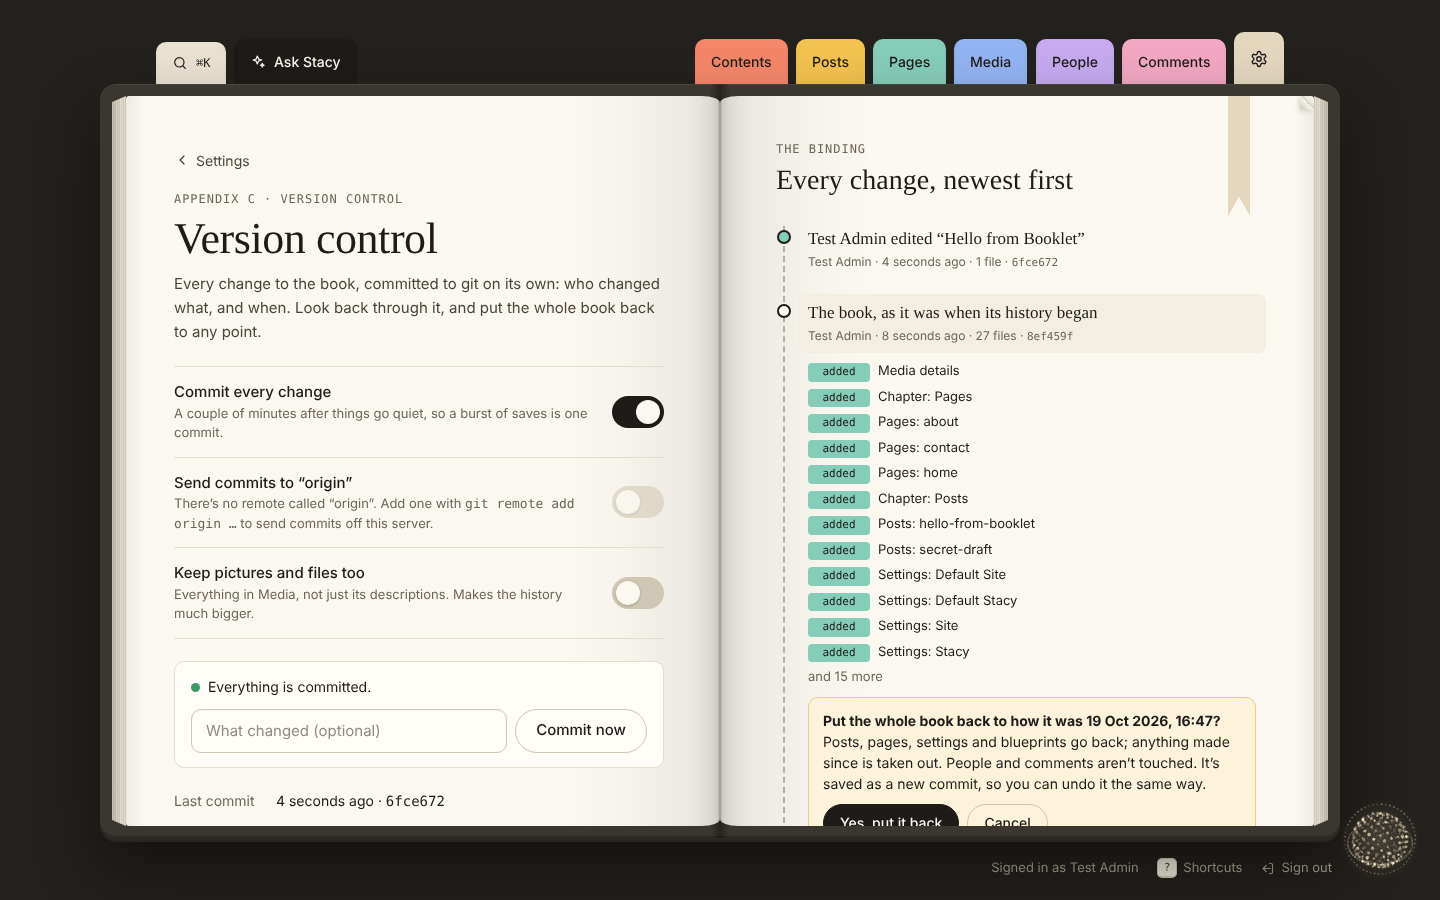
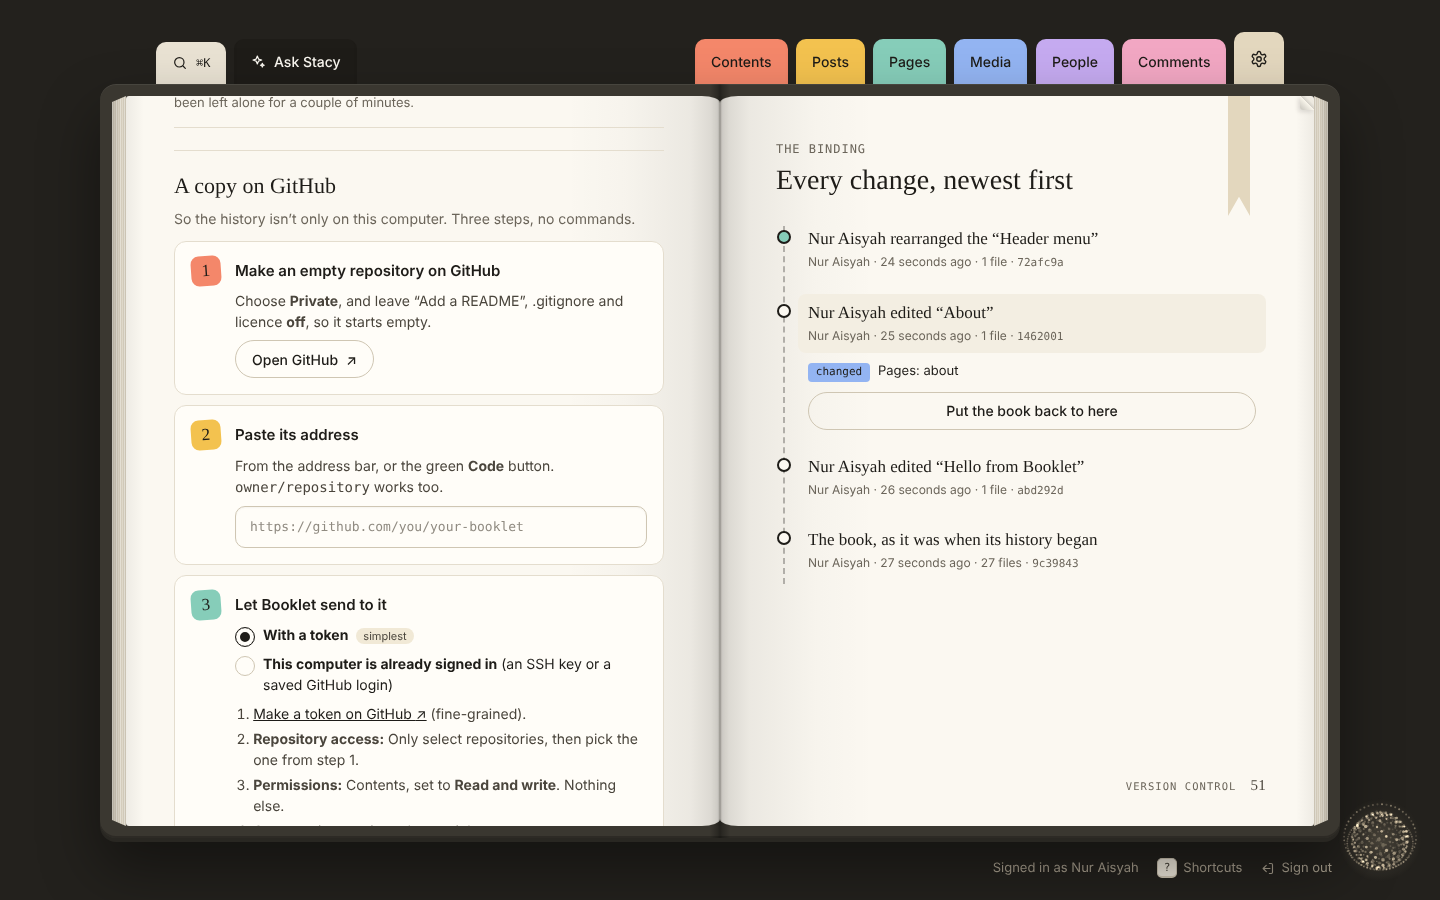
Updated README.md, docs/screenshots/site-menus.png and 2 more files
Changed: README.md, docs/screenshots/site-menus.png, docs/screenshots/version-control.png, docs/screenshots/wide-panel.png

diff --git a/README.md b/README.md
@@ -16,9 +16,20 @@ It comes with **Stacy**, an assistant who can find, write, tidy and publish with
 - **Blocks ("cut-outs"):** quotes, pictures, galleries, buttons, two columns, videos, notes and featured posts, tucked into any page and dragged into order. Inserts can add their own.
 - **Linked entries and rows:** point a page at other posts and pages (with "linked from" on the other side), or keep small tables like ingredients and opening hours.
 - **Show this field when…:** fields that appear only when another field says so, set up by picking or by typing it in plain words.
-- **Calendar, categories and tags, menus, redirects, and a print-ready book** of your writing.
+- **Calendar, categories and tags, redirects, and a print-ready book** of your writing.
 
 ![Cut-outs in the editor: paper slips with coloured tabs](docs/screenshots/editor-cut-outs.png)
+
+### Site menus
+- **One list, drag and drop.** Rows tucked in under another drop down from it on the site, up to three levels. No mouse? Arrow keys on a row's grip do the same, and Undo takes back the last 20 moves.
+- **Sub-pages that follow.** Tell a menu page to bring its sub-pages along, and new pages under it in Pages show up by themselves.
+- **Wide panels (mega menus).** A top item can open a panel across the page: its links in columns, with a picture, a few words and the newest posts if you like.
+- **Live preview.** Your home page wearing the unsaved menu, wide or phone-sized, seen only by you until you save.
+- On the site, drop-downs work with a mouse, a keyboard (Escape closes them) and on phones, where they open in place. The footer menu shows its links in groups.
+
+![The menu editor: one list, with a row's drawer open](docs/screenshots/site-menus.png)
+
+![A wide panel on the site: links in columns, the newest posts and a picture card](docs/screenshots/wide-panel.png)
 
 ### Collections and blueprints
 - Make your own chapters (collections) with their own fields, described in blueprints: simple YAML files you can read and edit by hand.
@@ -50,11 +61,11 @@ It comes with **Stacy**, an assistant who can find, write, tidy and publish with
 ### Keeping it safe
 See [Security](#security) for how Booklet protects your data, sign-ins and uploads.
 - **Backups:** the whole book in one file, nightly if you like, and restored with a look inside first.
-- **Version control:** with content kept as files, every change is committed to git on its own, credited to whoever made it. You can browse the history and put the whole book back to any point.
+- **Version control:** with content kept as files, every change is committed to git on its own, credited to whoever made it. You can browse the history and put the whole book back to any point. **Send it to GitHub in three steps** from the same page, no commands needed. Booklet won't commit files with unfinished merge marks, and it offers to take private files out of git if any were committed before.
 - **Check-up:** a page (and `php artisan booklet:doctor`) that tells you what the server is missing and how to fix it.
 - A bin that keeps deleted things for 30 days.
 
-![Version control: every change as a stitch in the binding](docs/screenshots/version-control.png)
+![Version control: the three steps to GitHub on the left, every change as a stitch in the binding on the right](docs/screenshots/version-control.png)
 
 ### Inserts
 Small add-ons that live in `inserts/`: they can add pages to the admin, cards on Contents, `[[slips]]` in writing, cut-outs, scheduled jobs and new skills for Stacy. **Events** and **Gallery** come with Booklet. Add more from a .zip, a link or a GitHub repository in Settings › Inserts. See [`inserts/README.md`](inserts/README.md).
@@ -181,6 +192,7 @@ By default only `content/`, `resources/blueprints`, `resources/fieldsets` and `r
 - **Safe database access.** All queries go through Laravel's query builder and Eloquent, with bound parameters, never raw values pasted into SQL.
 - **Backups leave secrets out.** AI keys and the mail password are never put in a backup file. Everything else is, so keep backups somewhere private.
 - **Version control never commits secrets.** `.env` files, the database file, `vendor/`, logs and backups are left out even if `.gitignore` forgets them.
+- **The GitHub token is kept like a secret.** It's encrypted with `APP_KEY`, only handed to git while sending, and never written into `.git/config` or shown again. Make it a fine-grained token for that one repository, with nothing but *Contents: Read and write*.
 - **Revisions and form submissions stay on the server.** `storage/booklet/` has its own `.gitignore` (put back if it goes missing), so even a hand-typed `git add .` leaves them out. Your content's history is in git already, through `content/`.
 - **Tests can't touch your content.** They always run against an in-memory database and refuse to start otherwise.
 
@@ -247,7 +259,7 @@ Tests always run against an in-memory database and never touch your real content
 ## Project layout
 
 ```
-app/Booklet/      content repositories, stores and the Booklet facade
+app/Booklet/      content repositories, stores, the page tree and menus, and the Booklet facade
 app/Livewire/     the admin (Admin/) and the site's interactive parts (Site/)
 app/Stacy/        the assistant: chat, tools, providers, voice
 app/Support/      blocks, links, rows, crops, version control, backups, health…
